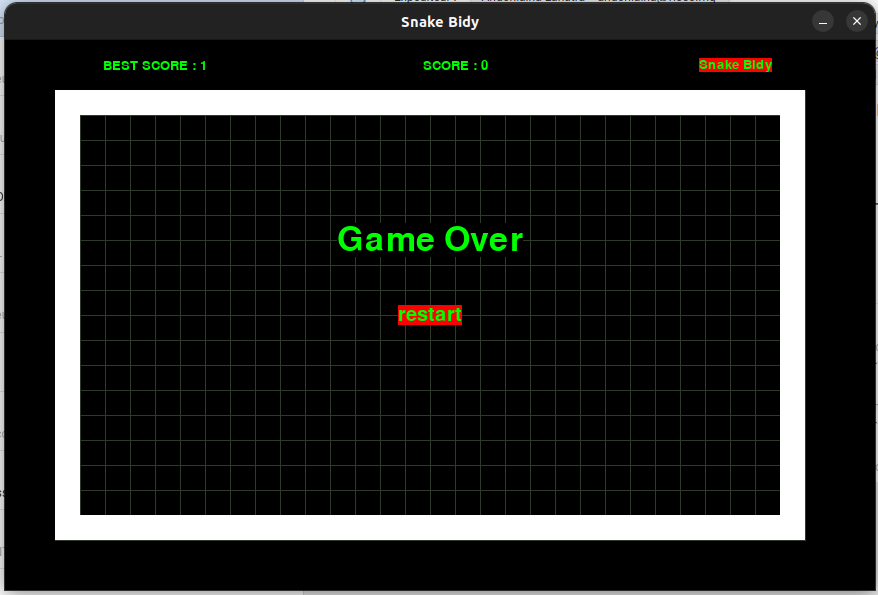
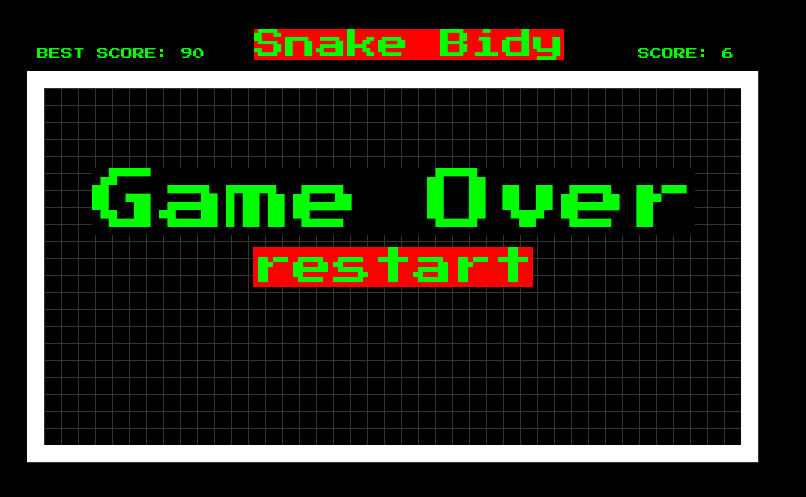
docs : update readme

diff --git a/README.md b/README.md
@@ -20,14 +20,17 @@ Voici un aperçu visuel de l'interface et du design de l'application à travers 
 
 ## 🚀 Fonctionnalités Clés
 
-* **Génération Procédurale de Labyrinthes :** À chaque nouvelle session, un labyrinthe unique est généré dynamiquement sur la grille, cassant la monotonie du jeu classique.
+* **Génération Procédurale de Labyrinthes :** À chaque nouvelle session, un labyrinthe unique est généré dynamiquement sur la grille. La densité des obstacles s'adapte de manière adaptative en fonction du meilleur score du joueur, cassant la monotonie du jeu classique et élevant le défi à chaque record battu.
 * **Moteur de Collisions Avancé :** Gestion précise des masques de collision avec détection de trois conditions de défaite critiques :
     * Impact avec les limites du terrain.
     * Impact avec les structures architecturales générées (obstacles).
     * Auto-collision (le serpent croise son propre corps).
-* **Système de Score & Courbe de Difficulté :** Calcul en temps réel de la croissance du serpent et ajustement progressif de la vitesse à chaque unité de nourriture consommée.
-* **Gestionnaire d'États (State Machine) :** Prise en charge fluide des transitions de jeu, incluant les fonctions de Pause et Reprise instantanées.
-
+* **Système de Score & Courbe de Difficulté :** Calcul en temps réel de la croissance du serpent à chaque unité de nourriture consommée. Intégration d'un catalogue de nourriture varié (pommes, bananes, fraises, fruits mystères) apportant un gameplay dynamique avec des valeurs de points et des raretés différentes.
+* **Gestionnaire d'États (State Machine) :** Prise en charge fluide des transitions de jeu, incluant le menu d'accueil dynamique, les fonctions de Pause et de Reprise instantanées, ainsi que l'écran de Game Over.
+* **Design Multiplateforme & Éco-système Adaptatif (Responsive) :** * **Indépendance de la Résolution :** Le jeu détecte automatiquement l'espace disponible (PC, Web/Pygbag, ou Mobile Portrait) et recalcule dynamiquement le nombre de cases de la grille pour occuper l'espace de manière optimale.
+    * **Paddings et Marges Relatives :** Configuration précise des zones d'affichage via des ratios de pourcentages, garantissant un espace dédié et aéré pour l'interface utilisateur.
+    * **UI/UX Dynamique :** Centralisation de la gestion typographique (`getFont`) et calcul automatique de la taille des polices (Titre, Boutons, Scores) pour qu'elles restent proportionnelles et parfaitement confinées à l'écran, sans jamais déborder.
+    * **Optimisation Visuelle (Contraste Élevé) :** Amélioration de la visibilité des assets sur fond noir via des animations de pulsation de taille (ondes sinusoïdales) et l'application de contours (silhouettes) sur les sprites pour un rendu typé Arcade de qualité professionnelle.
 ---
 
 ## 🕹 Contrôles & Commandes
